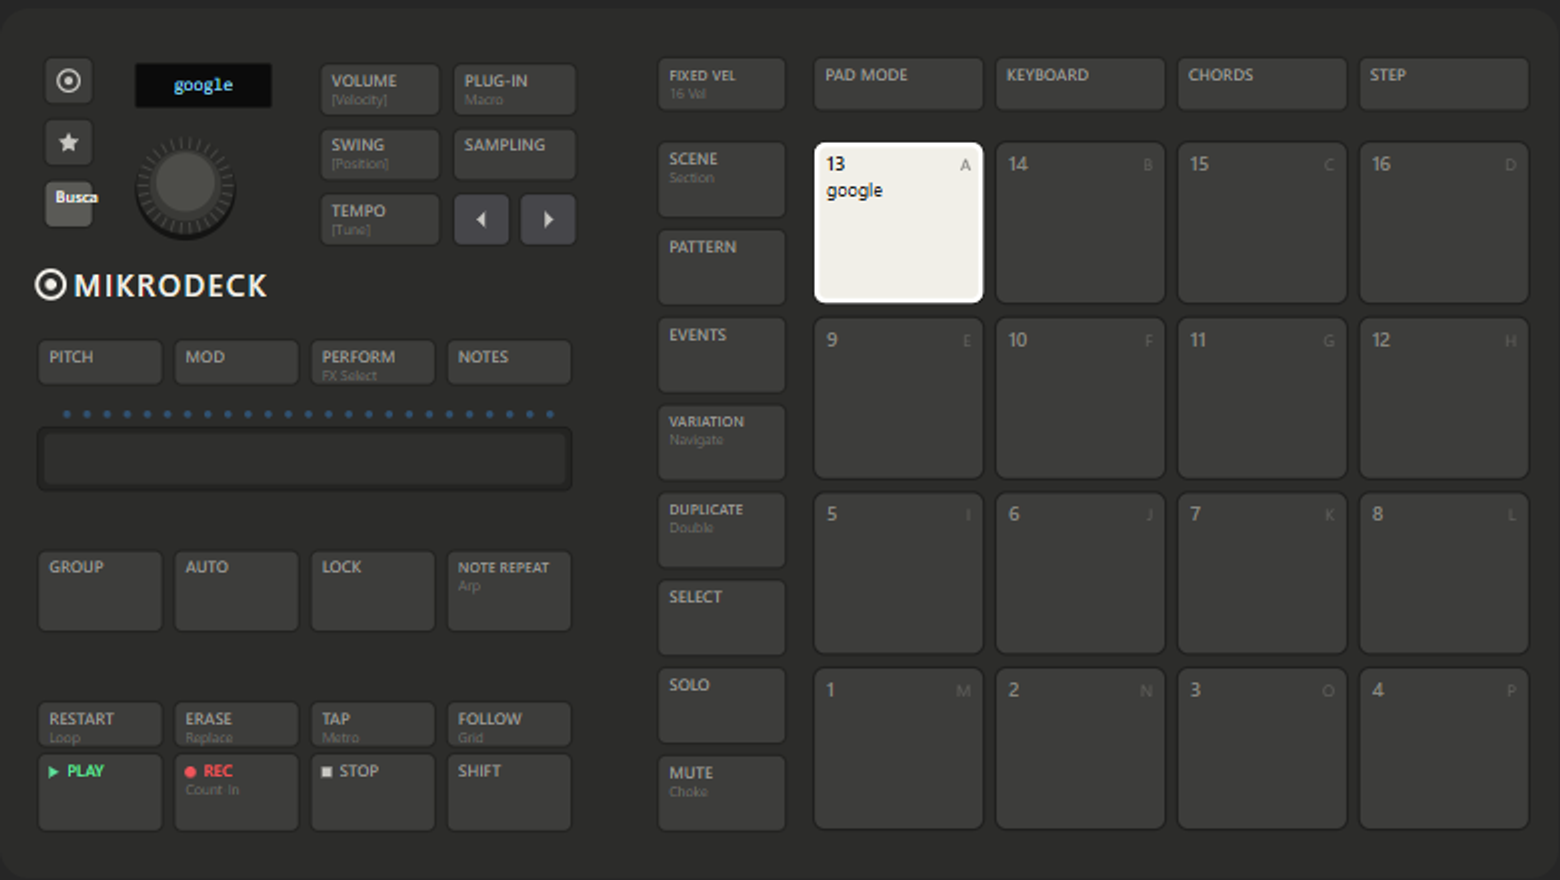
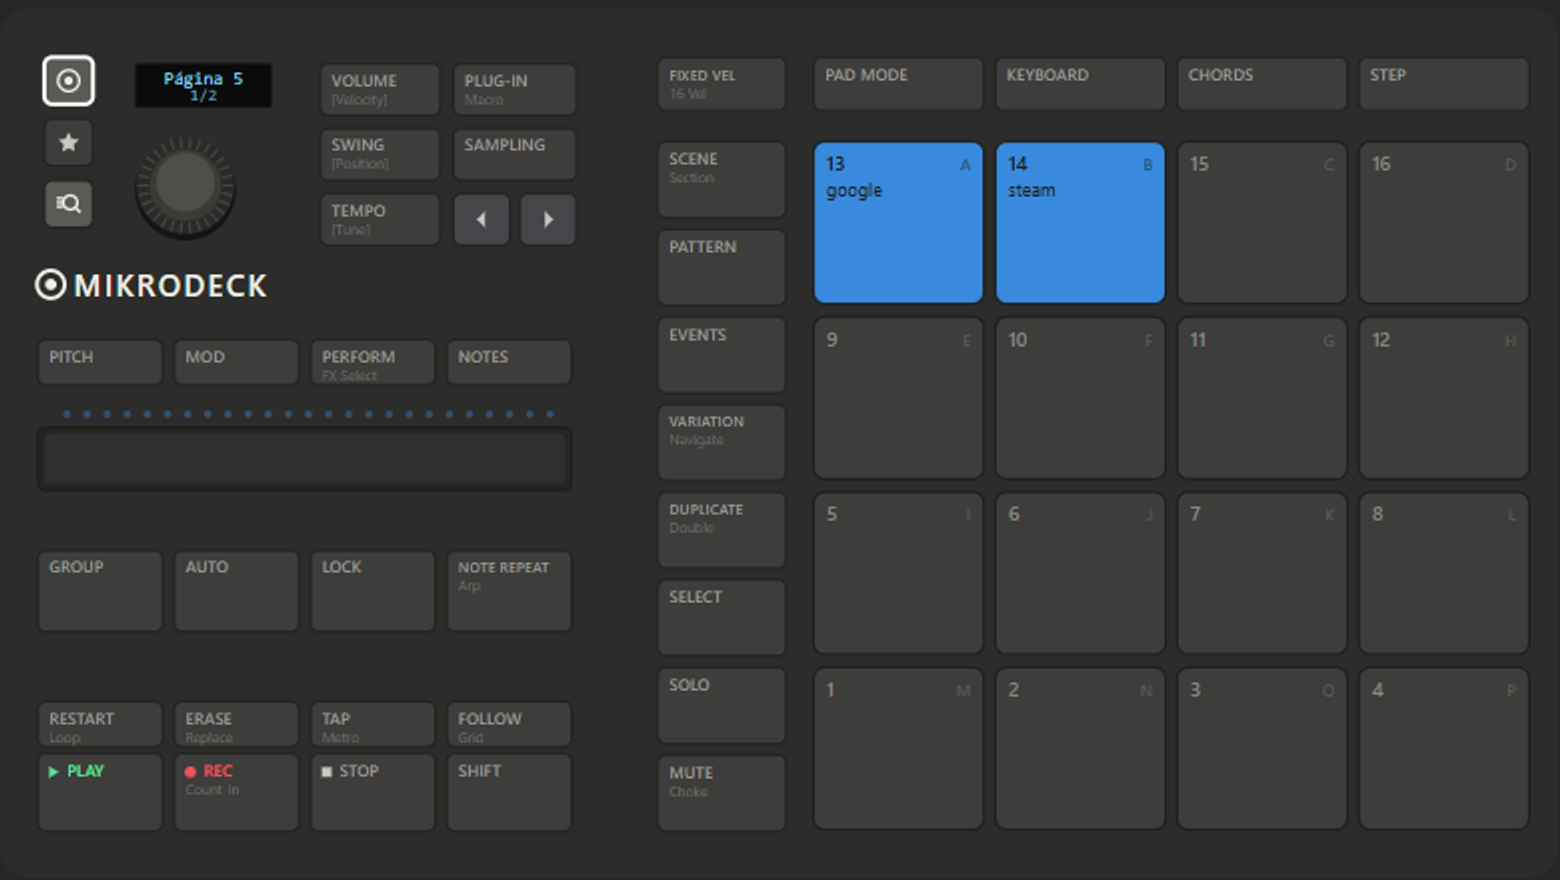
Desenho do aparelho: quatro rodadas de revisao e icones fixos
Coluna central, GROUP, PLAY, knob, logo, strip e redondos medidos contra
a foto em alta (7,0 -> 9,4). Botao com icone impresso mantem o icone
mesmo programado: o nome nao cabe nele.

diff --git a/mikrodeck/app/src/Aparelho.tsx b/mikrodeck/app/src/Aparelho.tsx
@@ -430,12 +430,15 @@ export function Aparelho({
             {!programado && b.id === "stop" && (
               <rect x={b.x + 7} y={b.y + 8.5} width="6" height="6" fill="#c8c7c2" />
             )}
-            {b.icone && !programado ? (
+            {/* Botão com ícone impresso mantém o ícone mesmo programado: o nome
+                não cabe aqui e vai para o painel e para a tela do aparelho. Ele
+                só fica mais claro, como os outros botões programados. */}
+            {b.icone ? (
               <Icone
                 nome={b.icone}
                 x={b.x + b.w / 2}
                 y={b.y + b.h / 2}
-                cor={apertado ? "#1f1f1e" : "#c8c7c2"}
+                cor={apertado ? "#1f1f1e" : programado ? "#F1EFE8" : "#c8c7c2"}
               />
             ) : (
               <>
